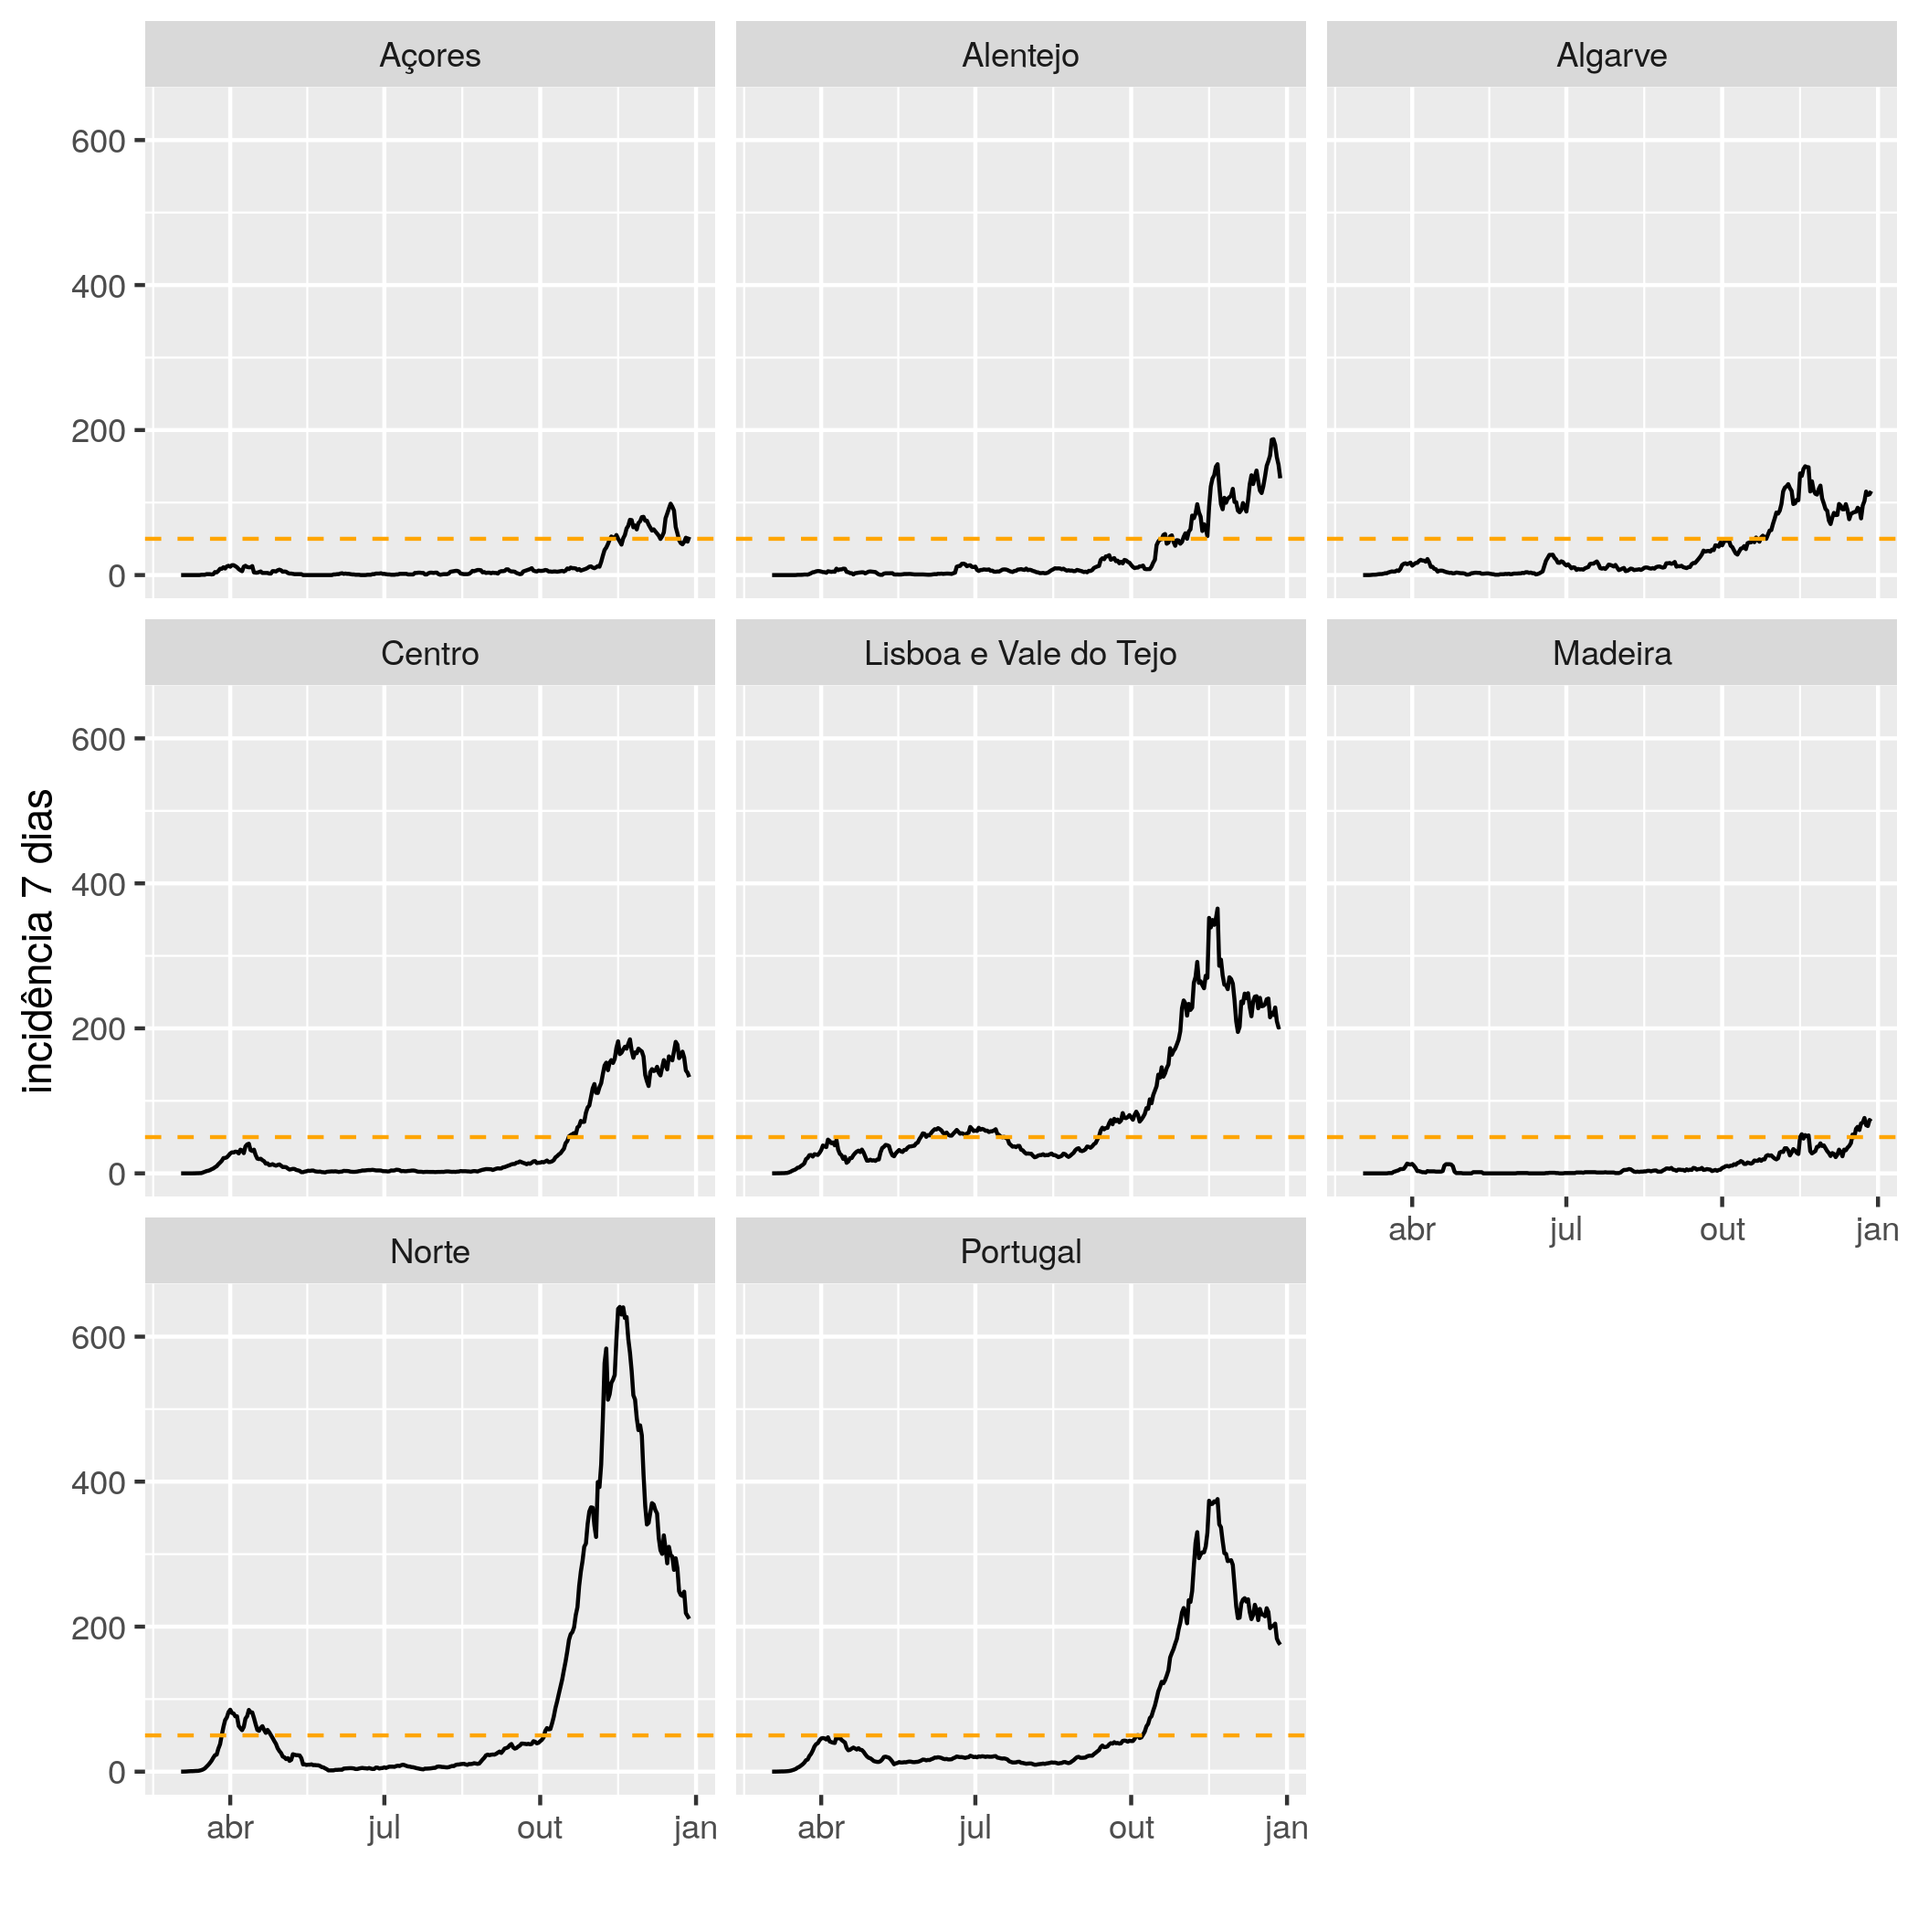
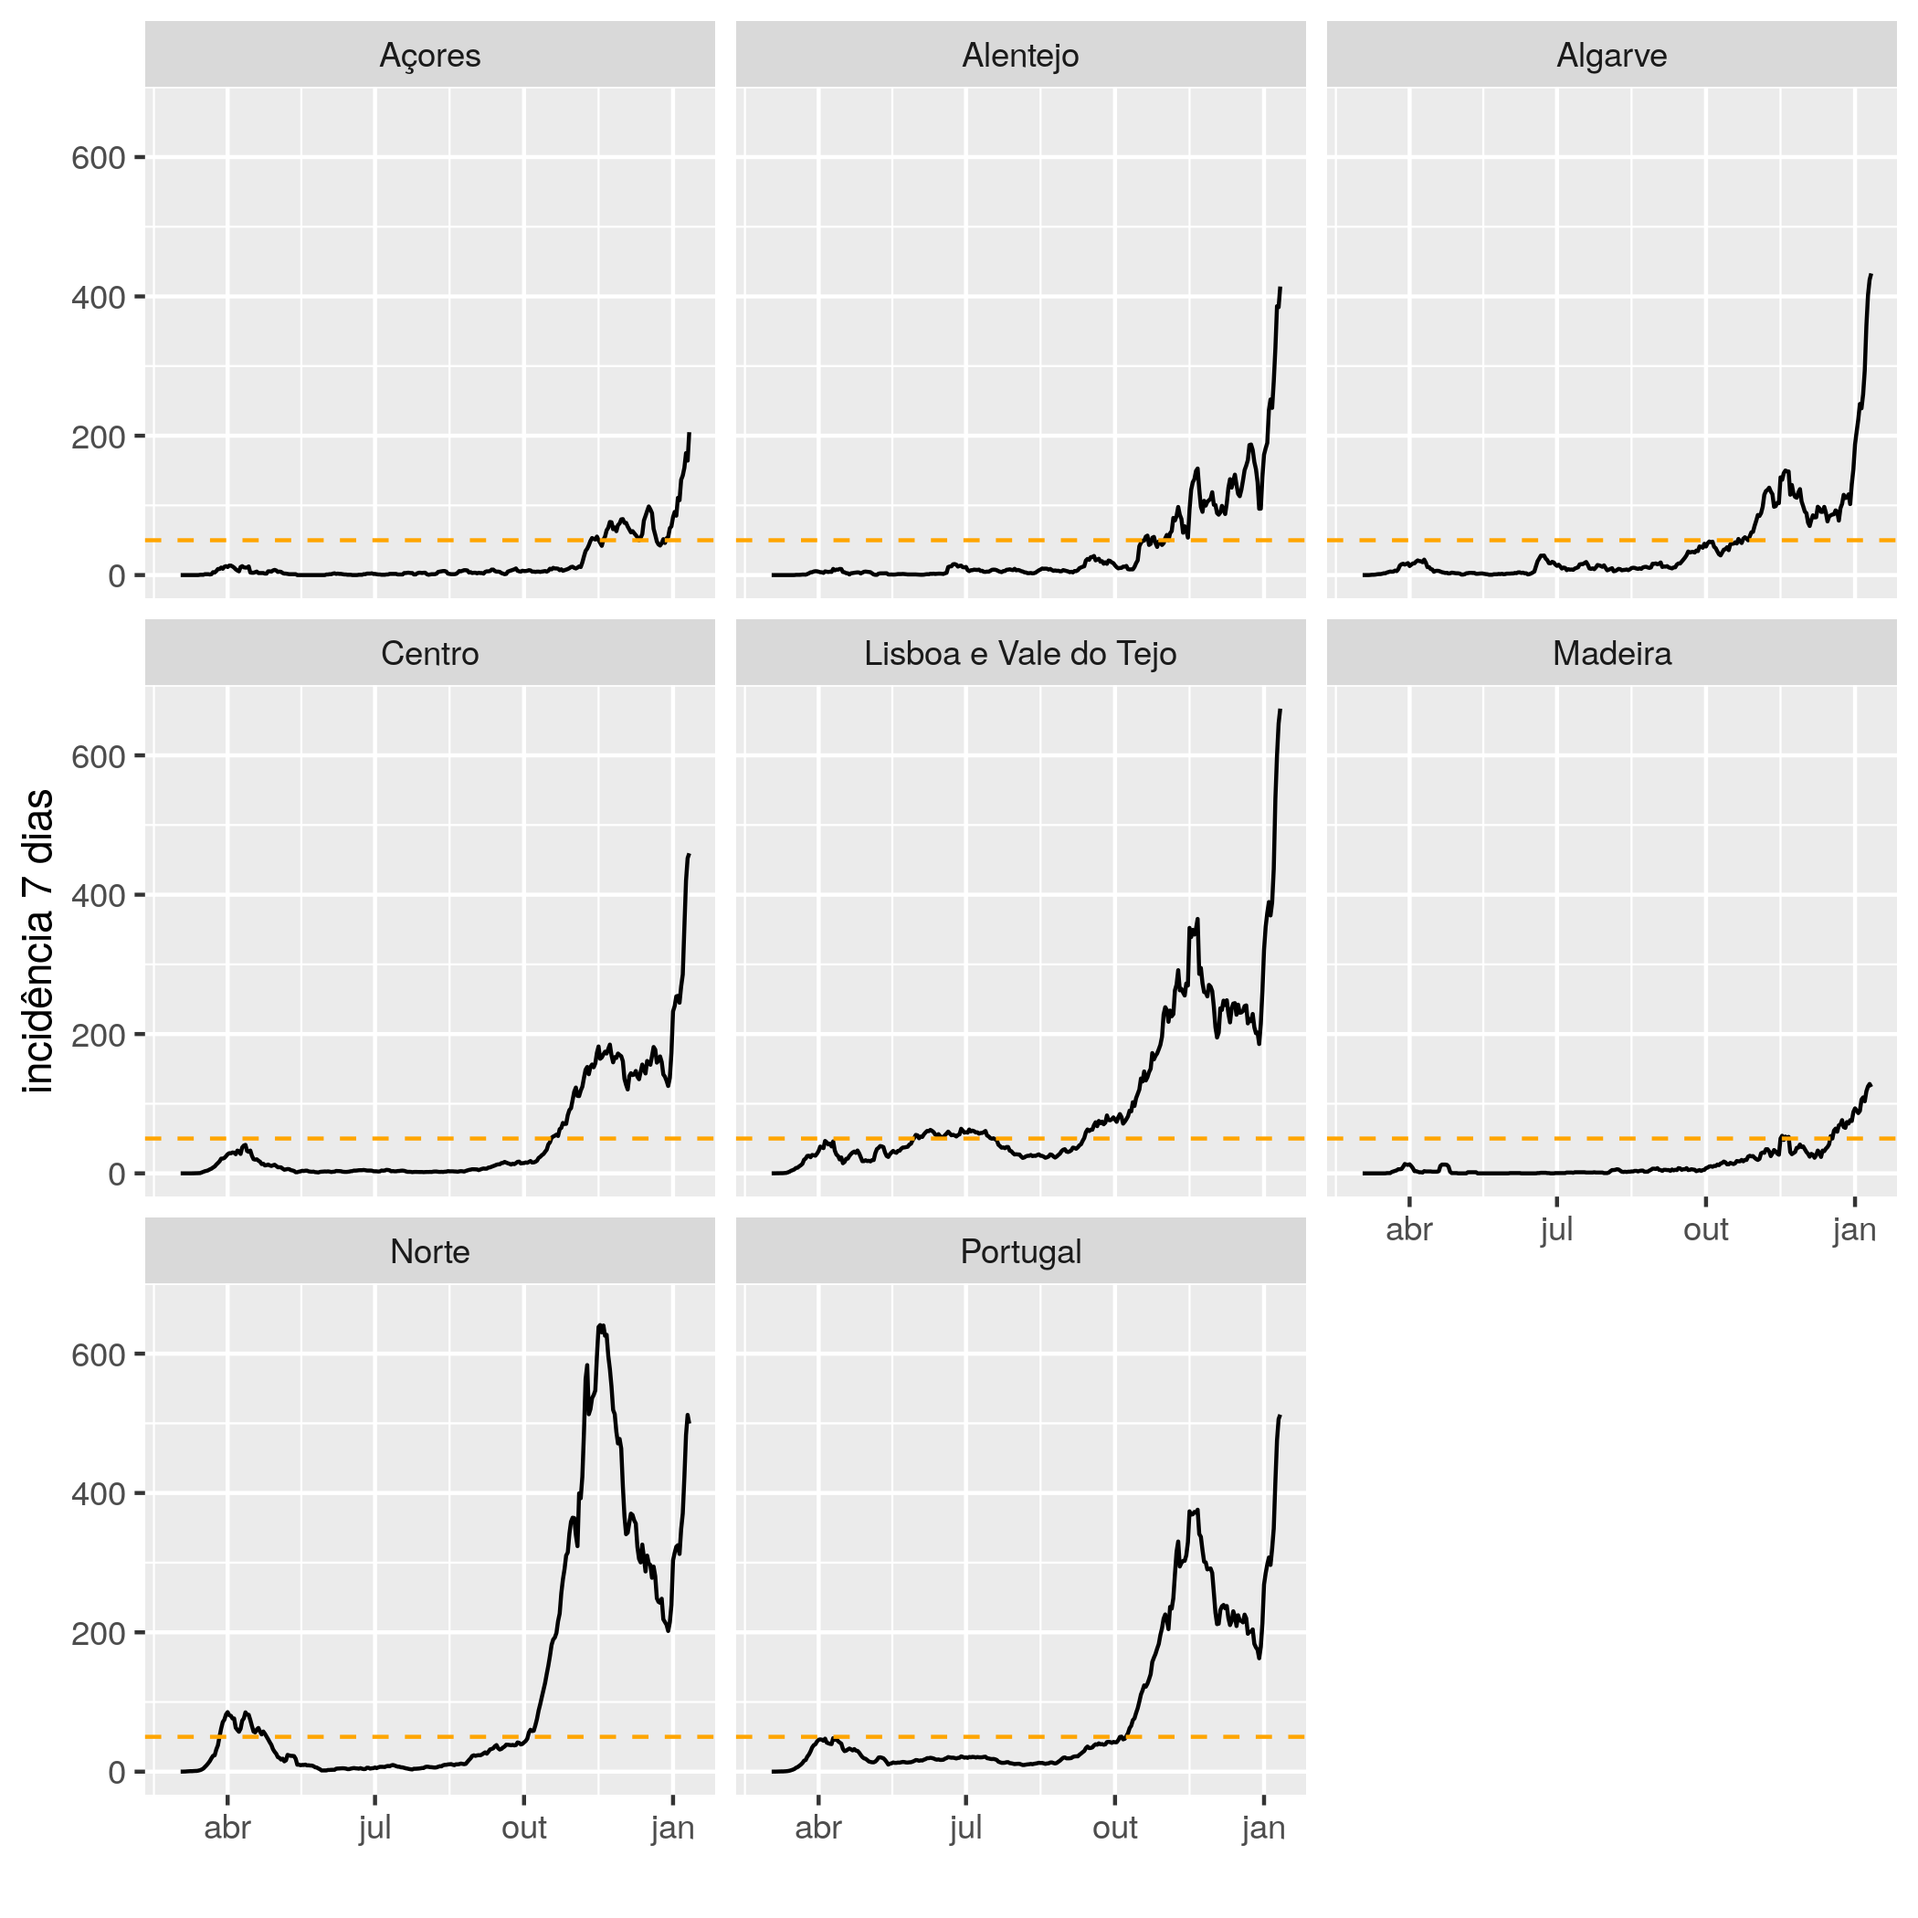
o fim...

diff --git a/README.md b/README.md
@@ -1,7 +1,7 @@
 # Contexto
 A incidência por 100000 habitantes em 7 dias é o valor de referência para decretar regiões de risco pelas autoridades de saúde alemãs (valor charneira é 50). Gráficos atualizados diariamente. Para ajudar quem quer viajar para a Alemanha ou vir passar férias a Portugal.
 
-Dados mais recentes de 2020-12-28.
+Dados mais recentes de 2021-01-11.
 
 # Incidência por 100000 habitantes em 7 dias
 ## Últimos 30 dias
